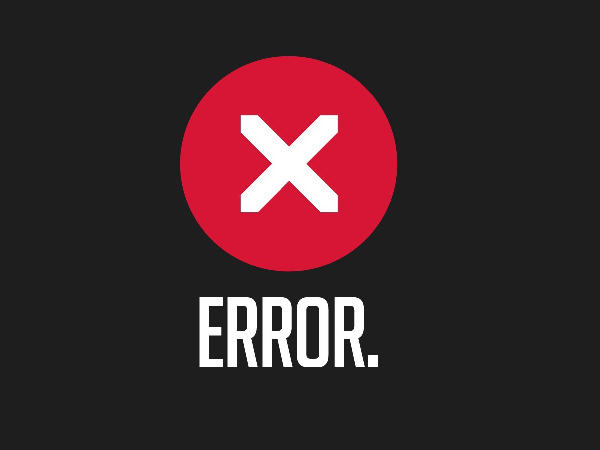
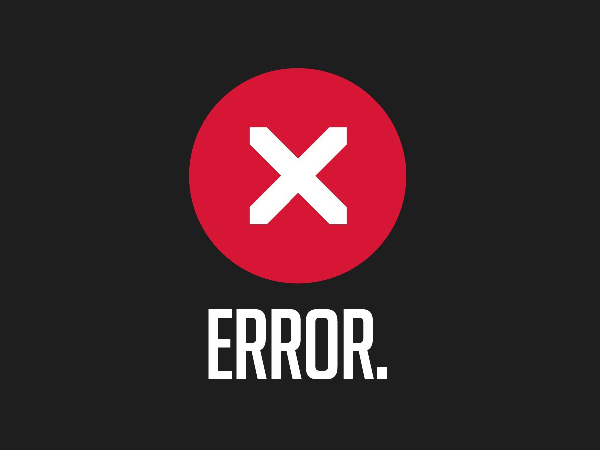
Add status bar and reset button

diff --git a/big_task123.py b/big_task123.py
@@ -1,7 +1,5 @@
 import os
-import sys
 import requests
-import pprint
 from Projects.Maps_API.GUI import *
 from PIL import Image
 from io import BytesIO
@@ -17,36 +15,35 @@ def convert_bytes(bytes_stream):
 
 class Maps:
     def __init__(self):
-        self.lon = "44.99142"
-        self.lat = "53.198705"
+        self.lon = "52.376552"
+        self.lat = "5.198308"
         self.mode = "sat,skl"
         self.z = "4"
-        self.bg_color = 83, 29, 18
-        self.fg_color = 233, 230, 0
         self.map_image = None
-        self.press1 = False
-        self.press2 = False
+        self.mark_coords = None
         self.search_request = ""
+        self.bg_color = 45, 20, 15
+        self.fg_color = 245, 250, 115
 
-    def new_static_request(self):
-        static_api_server = "http://static-maps.yandex.ru/1.x/"
+    def static_request(self):
+        static_api_server = "https://static-maps.yandex.ru/1.x/"
         params = {
             "l": self.mode,
             "ll": ",".join([self.lon, self.lat]),
             "z": self.z
         }
+        if self.mark_coords is not None:
+            params["pt"] = ",".join([self.mark_coords, "pm2vvm"])
+
         try:
             response = requests.get(static_api_server, params=params)
             if not response:
-                print("Ошибка выполнения запроса")
-                print("Http статус:", response.status_code, "(", response.reason, ")")
-                sys.exit(1)
+                return error
             return convert_bytes(response.content)
         except:
-            print("Запрос не удалось выполнить. Проверьте наличие сети Интернет.")
-            sys.exit(1)
+            return error
 
-    def new_geocoder_request(self):
+    def geocoder_request(self):
         geocode_api_server = "https://geocode-maps.yandex.ru/1.x/"
         params = {
             "geocode": self.search_request,
@@ -55,18 +52,16 @@ class Maps:
         try:
             response = requests.get(geocode_api_server, params=params)
             if not response:
-                print("Ошибка выполнения запроса:")
-                print(self.search_request)
-                print("Http статус:", response.status_code, "(", response.reason, ")")
-                sys.exit(1)
+                return "Не удалось выполнить запрос"
             json_response = response.json()
-            self.lon, self.lat = json_response["response"]["GeoObjectCollection"]["featureMember"][0]\
-                                              ["GeoObject"]["Point"]["pos"].split()
+            toponym = json_response["response"]["GeoObjectCollection"]["featureMember"][0]["GeoObject"]
+            self.lon, self.lat = toponym["Point"]["pos"].split()
+            self.mark_coords = ",".join([self.lon, self.lat])
+            return toponym["metaDataProperty"]["GeocoderMetaData"]["text"]
         except IndexError:
-            print("Результатов не найдено")
+            return "Результатов не найдено"
         except:
-            print("Запрос не удалось выполнить. Проверьте наличие сети Интернет.")
-            sys.exit(1)
+            return "Проверьте наличие сети Интернет"
 
     def change_mode(self, direction):
         modes = ["map", "sat", "sat,skl"]
@@ -80,23 +75,32 @@ class Maps:
     def main(self):
         clock = pygame.time.Clock()
         pygame.key.set_repeat(500, 10)
-        running = True
 
         gui = GUI()
 
-        search_button = ImageButton((753, 23, 74, 74), self.fg_color, loop, True)
-        left_mode = ImageButton((640, 170, 34, 54), self.fg_color, left_arrow, True)
-        right_mode = ImageButton((846, 170, 34, 54), self.fg_color, right_arrow, True)
-        current_mode = Label((685, 170, 152, 54), self.fg_color, self.mode, self.bg_color, True)
-        search_textbox = TextBox((75, 33, 650, 54), -1, "", (200, 200, 0))
+        search_textbox = TextBox((35, 35, 754, 50), -1, (200, 200, 0))
+        search_button = ImageButton((803, 23, 74, 74), (255, 150, 25), loop, True)
+        status_bar = Label((50, 120, 800, 80), (85, 30, 20), "Введите поисковый запрос", (200, 200, 0), True)
+
+        left_mode = ImageButton((645, 320, 34, 54), self.fg_color, left_arrow, True)
+        right_mode = ImageButton((851, 320, 34, 54), self.fg_color, right_arrow, True)
+        current_mode = Label((689, 320, 152, 54), self.fg_color, self.mode, self.bg_color, True)
+
+        reset_button = ImageButton((725, 220, 80, 80), self.fg_color, cross, True)
 
         gui.add_element(search_button)
         gui.add_element(left_mode)
         gui.add_element(right_mode)
         gui.add_element(current_mode)
         gui.add_element(search_textbox)
+        gui.add_element(status_bar)
+        gui.add_element(reset_button)
 
-        self.map_image = self.new_static_request()
+        self.map_image = self.static_request()
+
+        running = True
+        press_left = False
+        press_right = False
 
         while running:
             for event in pygame.event.get():
@@ -122,47 +126,64 @@ class Maps:
                     elif event.key == pygame.K_UP and float(self.lat) < 89:
                         self.lat = str(float(self.lat) + shift)
 
-                    self.map_image = self.new_static_request()
+                    self.map_image = self.static_request()
 
                 gui.get_event(event)
 
-            if left_mode.pressed and not self.press1:
+            gui.update()
+
+            screen.fill(self.bg_color)
+            # Отрисовка карты с рамкой
+            screen.fill(self.fg_color, (10, 220, 620, 470))
+            screen.blit(self.map_image, (20, 230))
+            # Отрисовка поисковой строки
+            screen.fill((233, 230, 0), (20, 20, 860, 80))
+            screen.fill((85, 30, 20), (30, 30, 764, 60))
+            # Отрисовка статусбара
+            screen.fill((233, 230, 0), (45, 115, 810, 90))
+            # Отрисовка итерфейса
+            gui.render(screen)
+
+            pygame.display.flip()
+            clock.tick(60)
+
+            if left_mode.pressed and not press_left:
                 self.change_mode(-1)
-                self.map_image = self.new_static_request()
                 current_mode.text = self.mode
-                self.press1 = True
-            elif not left_mode.pressed and self.press1:
-                self.press1 = False
-            if right_mode.pressed and not self.press2:
+                self.map_image = self.static_request()
+                press_left = True
+            elif not left_mode.pressed and press_left:
+                press_left = False
+            if right_mode.pressed and not press_right:
                 self.change_mode(1)
-                self.map_image = self.new_static_request()
                 current_mode.text = self.mode
-                self.press2 = True
-            elif not right_mode.pressed and self.press2:
-                self.press2 = False
+                self.map_image = self.static_request()
+                press_right = True
+            elif not right_mode.pressed and press_right:
+                press_right = False
 
             if search_button.pressed:
                 search_textbox.done = True
 
+            elif reset_button.pressed:
+                self.mark_coords = None
+                self.search_request = ""
+                status_bar.set_font_size(-1)
+                status_bar.text = "Введите поисковый запрос"
+                self.map_image = self.static_request()
+
             if search_textbox.done and search_textbox.text:
                 self.search_request = search_textbox.text
-                self.new_geocoder_request()
-                self.map_image = self.new_static_request()
-
-            gui.update()
-            screen.fill(self.bg_color)
-            screen.blit(self.map_image, (20, 130))
-            screen.blit(search_line, (70, 20))
-            gui.render(screen)
-            pygame.display.flip()
-            clock.tick(60)
+                status_bar.set_font_size(-1)
+                status_bar.text = self.geocoder_request()
+                self.map_image = self.static_request()
 
         pygame.quit()
 
 
 if __name__ == "__main__":
     pygame.init()
-    screen = pygame.display.set_mode((900, 600))
+    screen = pygame.display.set_mode((900, 700))
 
     def load_image(name, colorkey=None):
         fullname = os.path.join("data", name)
@@ -179,10 +200,12 @@ if __name__ == "__main__":
         return image
 
 
-    search_line = load_image("search_line.png")
     loop = load_image("loop.png")
     left_arrow = load_image("left.png")
     right_arrow = load_image("right.png")
+    error = load_image("error.png")
+    cross = load_image("cross.png")
+    cross = pygame.transform.scale(cross, (50, 50))
 
     app = Maps()
     app.main()

diff --git a/GUI.py b/GUI.py
@@ -40,16 +40,51 @@ class Label:
         self.font = pygame.font.Font(None, self.rect.height - 4)
         self.rendered_text = None
         self.rendered_rect = None
+        self.optimal_font_size = False
 
     def render(self, surface):
         if self.rect_color != -1:
             surface.fill(self.rect_color, self.rect)
-        self.rendered_text = self.font.render(self.text, 10, self.font_color)
-        if self.center:
-            self.rendered_rect = self.rendered_text.get_rect(center=self.rect.center)
+
+        if self.font.size(self.text)[0] > self.rect.width:
+
+            if not self.optimal_font_size:
+                self.set_font_size(self.rect.height // (self.font.size(self.text)[0] // self.rect.width + 1))
+                self.optimal_font_size = True
+
+            lines = self.line_break()
+            for i in range(len(lines)):
+                self.rendered_text = self.font.render(lines[i], 1, self.font_color)
+                self.rendered_rect = self.rendered_text.get_rect(centerx=self.rect.centerx,
+                                                                 y=self.rect.y+(self.rect.height//len(lines)*i)+15)
+                surface.blit(self.rendered_text, self.rendered_rect)
+
         else:
-            self.rendered_rect = self.rendered_text.get_rect(x=self.rect.x + 2, centery=self.rect.centery)
-        surface.blit(self.rendered_text, self.rendered_rect)
+            self.rendered_text = self.font.render(self.text, 1, self.font_color)
+            if self.center:
+                self.rendered_rect = self.rendered_text.get_rect(center=self.rect.center)
+            else:
+                self.rendered_rect = self.rendered_text.get_rect(x=self.rect.x + 2, centery=self.rect.centery)
+            surface.blit(self.rendered_text, self.rendered_rect)
+
+    def set_font_size(self, size):
+        if size == -1:
+            self.font = pygame.font.Font(None, self.rect.height - 4)
+            self.optimal_font_size = False
+        else:
+            self.font = pygame.font.Font(None, size)
+
+    def line_break(self):
+        lines, cur_text = [], ""
+        for toponym in self.text.split():
+            toponym += " "
+            if self.font.size(cur_text + toponym)[0] > self.rect.width:
+                lines.append(cur_text)
+                cur_text = toponym
+            else:
+                cur_text += toponym
+        lines.append(cur_text)
+        return lines
 
 
 class Button(Label):
@@ -125,8 +160,8 @@ class ImageButton:
 
 
 class TextBox(Label):
-    def __init__(self, rect, rect_color, text, font_color):
-        super().__init__(rect, rect_color, text, font_color)
+    def __init__(self, rect, rect_color, font_color):
+        super().__init__(rect, rect_color, "", font_color)
         self.active = False
         self.done = False
         self.blink = False
@@ -138,20 +173,19 @@ class TextBox(Label):
             self.text = ""
         if event.type == pygame.KEYDOWN and self.active:
             if event.key in (pygame.K_RETURN, pygame.K_KP_ENTER):
-                self.active = False
                 self.done = True
             elif event.key == pygame.K_BACKSPACE:
                 if len(self.text) > 0:
                     self.text = self.text[:-1]
             else:
                 self.text += event.unicode
-                if self.rendered_rect.width > self.rect.width:
+                if self.font.size(self.text)[0] >= self.rect.width:
                     self.text = self.text[:-1]
         elif event.type == pygame.MOUSEBUTTONDOWN and event.button == 1:
             self.active = self.rect.collidepoint(*event.pos)
 
     def update(self):
-        if pygame.time.get_ticks() - self.blink_timer > 200:
+        if pygame.time.get_ticks() - self.blink_timer > 300:
             self.blink = not self.blink
             self.blink_timer = pygame.time.get_ticks()
 
